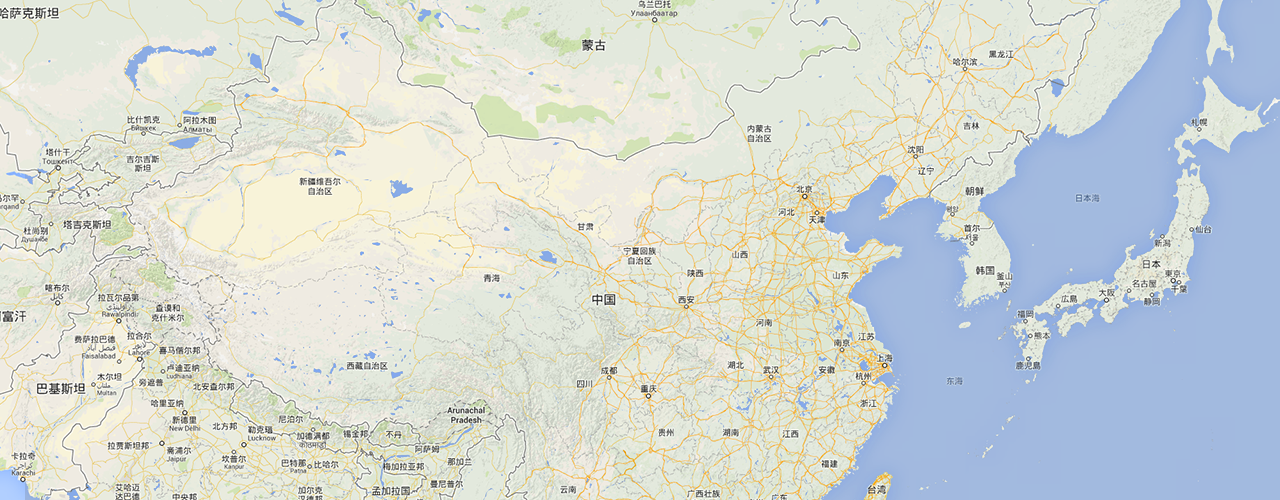
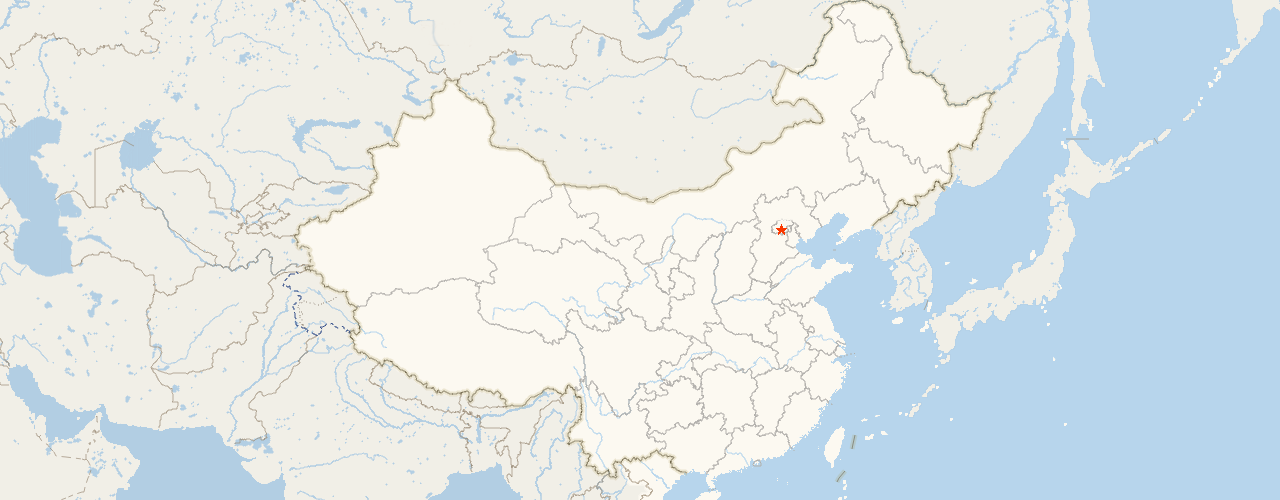
changed base map

diff --git a/docs/generate_map.php b/docs/generate_map.php
@@ -9,7 +9,7 @@ ob_end_clean();
 
 $generator = new MapGenerator(1280,500);
 $generator->loadImageAsBackground('MapGenerator/base-map.png');
-$generator->calibrate(65.708793,48.643092,146.546515,24.198402);
+$generator->calibrate(48.104879,53.580089,159.518909,19.421305);
 
 // mark all csrs
 $csr_icon = $generator->loadImage('MapGenerator/csr-icon.png');
